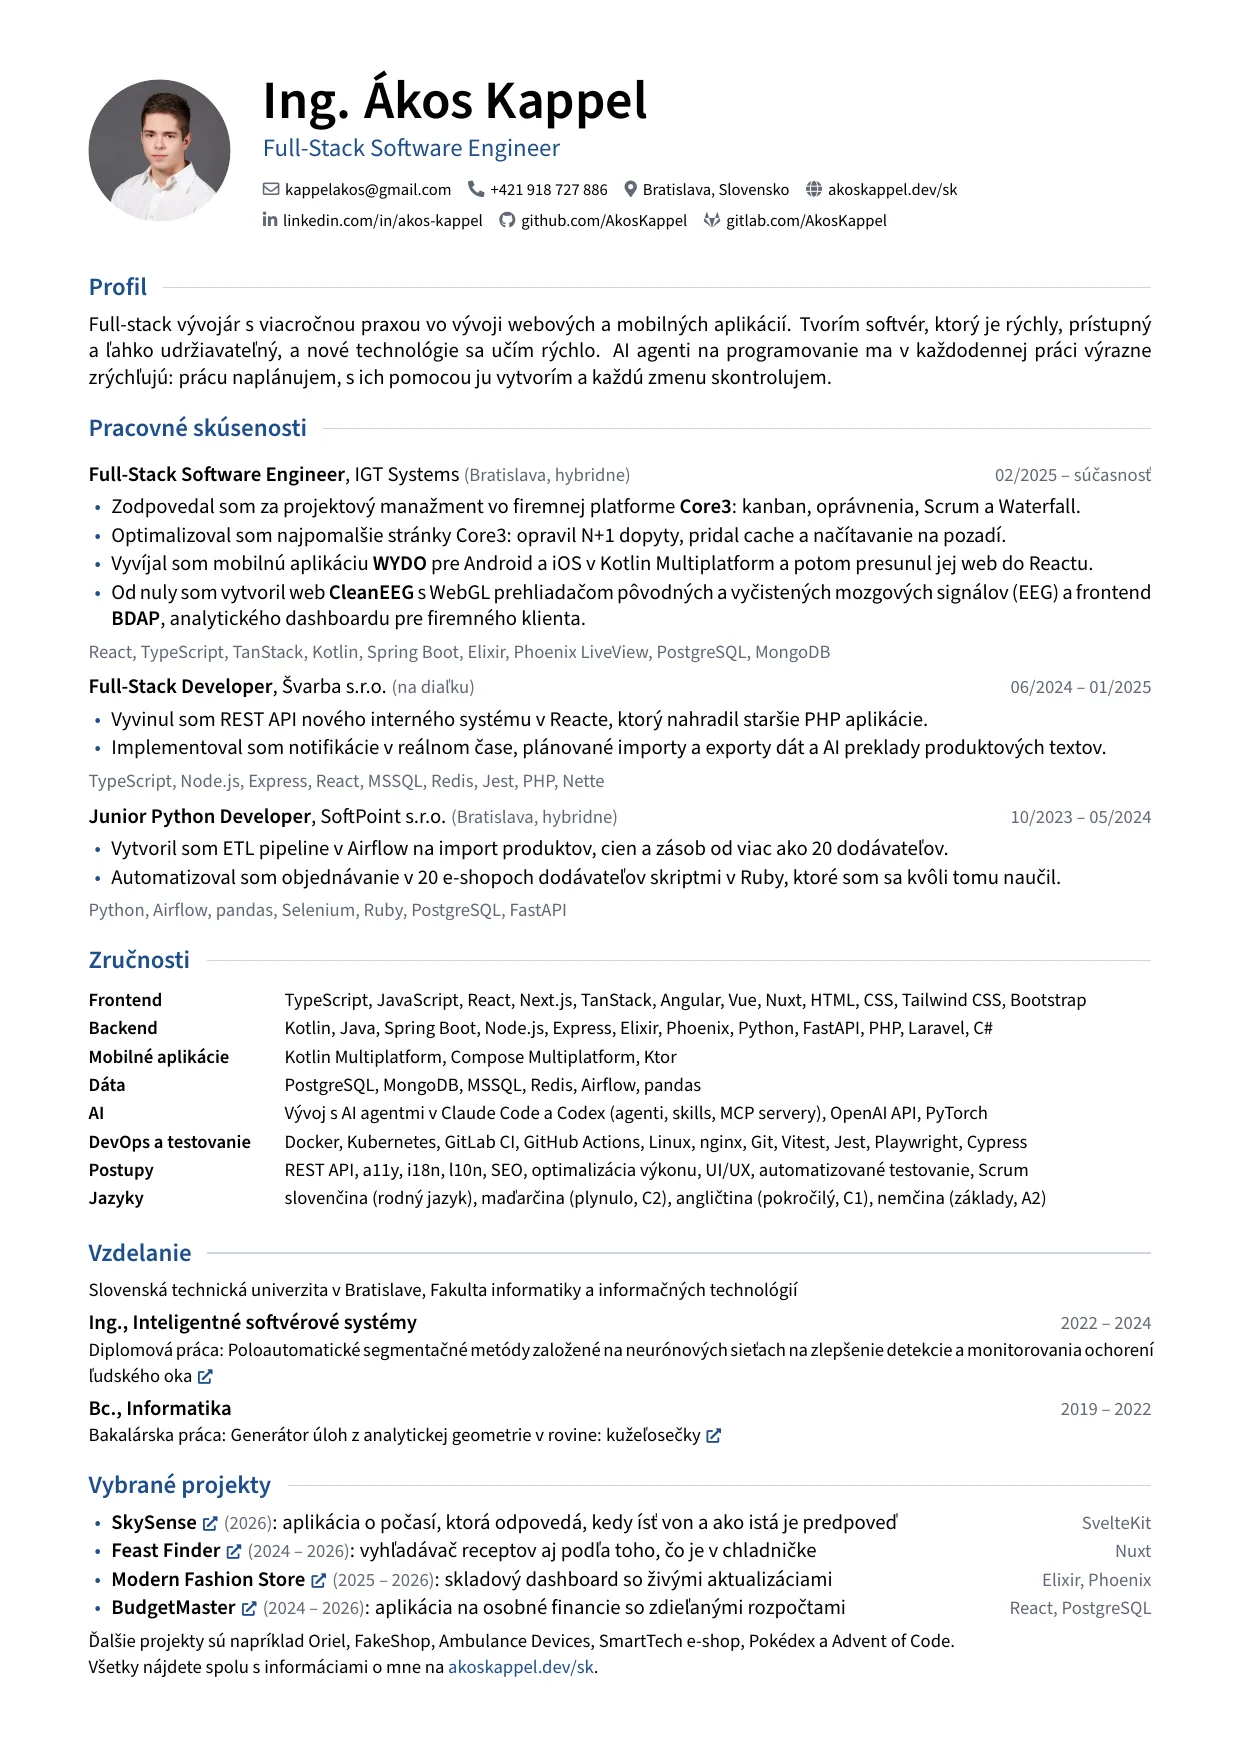
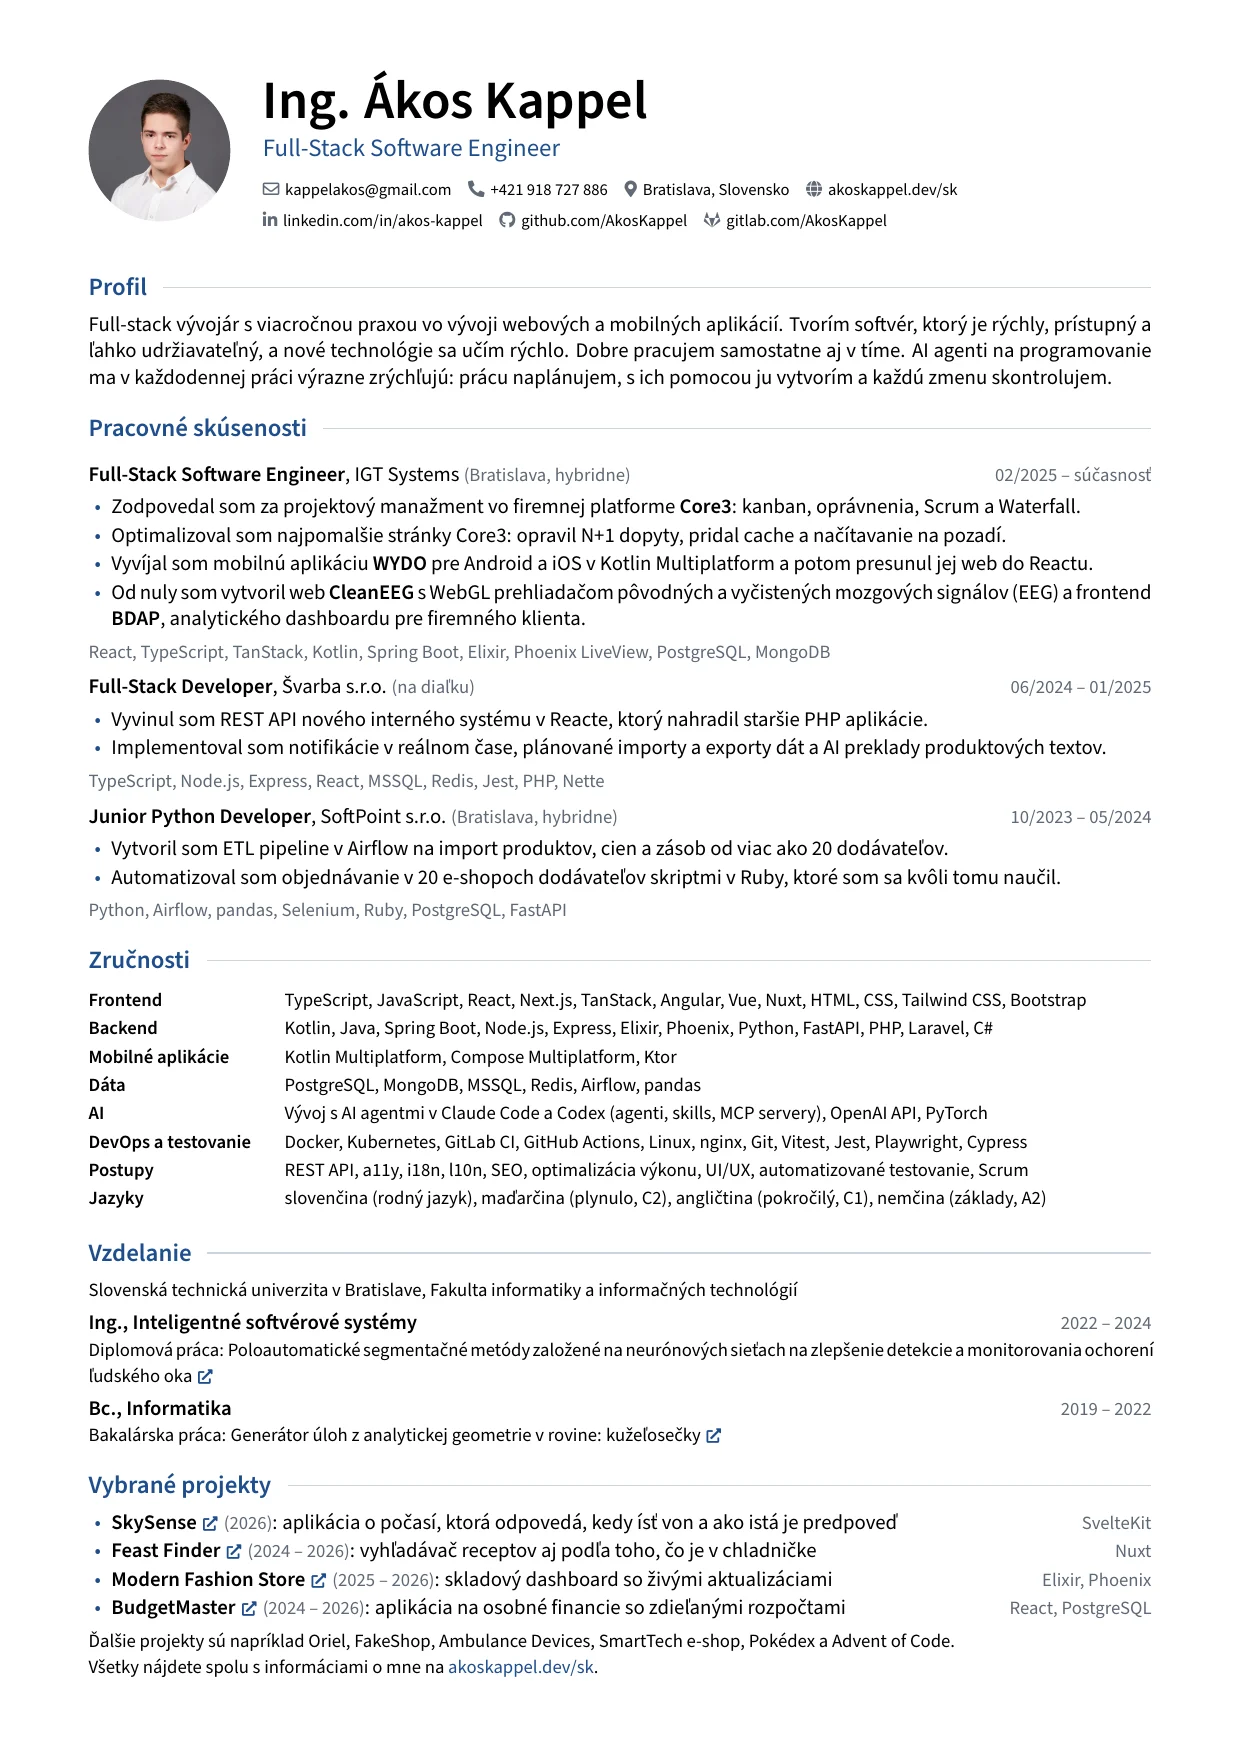
Mention working well alone and in a team on the about page and CV

Changed region(s): [[0.0612, 0.1847, 0.9186, 0.2463]]

diff --git a/src/content/site.ts b/src/content/site.ts
@@ -112,11 +112,11 @@ export const site = {
       },
       paragraphs: [
         {
-          en: "I work across the whole stack, from the database and the API to the interface people actually use. Before I write code I like to understand the problem and sketch the solution, and I leave tests behind so the next change is safe.",
-          sk: "Pracujem naprieč celým stackom, od databázy a API až po rozhranie, ktoré ľudia naozaj používajú. Kým začnem programovať, chcem pochopiť problém a načrtnúť riešenie, a nechávam po sebe testy, aby bola ďalšia zmena bezpečná.",
-          de: "Ich arbeite über den gesamten Stack, von der Datenbank und der API bis zur Oberfläche, die Menschen tatsächlich nutzen. Bevor ich Code schreibe, will ich das Problem verstehen und die Lösung skizzieren, und ich hinterlasse Tests, damit die nächste Änderung sicher ist.",
-          cs: "Pracuji napříč celým stackem, od databáze a API až po rozhraní, které lidé skutečně používají. Než začnu programovat, chci pochopit problém a načrtnout řešení, a nechávám po sobě testy, aby byla další změna bezpečná.",
-          hu: "A teljes stacken dolgozom, az adatbázistól és az API-tól egészen a felületig, amelyet az emberek ténylegesen használnak. Mielőtt kódot írok, szeretem megérteni a problémát és felvázolni a megoldást, és teszteket hagyok magam után, hogy a következő változtatás biztonságos legyen.",
+          en: "I work across the whole stack, from the database and the API to the interface people actually use. Before I write code I like to understand the problem and sketch the solution, and I leave tests behind so the next change is safe. I work well on my own and in a team: I take personal projects from the first idea to deployment alone, and at work I share reviews, decisions and knowledge with my colleagues.",
+          sk: "Pracujem naprieč celým stackom, od databázy a API až po rozhranie, ktoré ľudia naozaj používajú. Kým začnem programovať, chcem pochopiť problém a načrtnúť riešenie, a nechávam po sebe testy, aby bola ďalšia zmena bezpečná. Dobre pracujem samostatne aj v tíme: osobné projekty dotiahnem sám od prvého nápadu po nasadenie a v práci s kolegami zdieľam code review, rozhodnutia aj vedomosti.",
+          de: "Ich arbeite über den gesamten Stack, von der Datenbank und der API bis zur Oberfläche, die Menschen tatsächlich nutzen. Bevor ich Code schreibe, will ich das Problem verstehen und die Lösung skizzieren, und ich hinterlasse Tests, damit die nächste Änderung sicher ist. Ich arbeite gut allein und im Team: Eigene Projekte bringe ich allein von der ersten Idee bis zum Deployment, und in der Arbeit teile ich Code-Reviews, Entscheidungen und Wissen mit meinen Kollegen.",
+          cs: "Pracuji napříč celým stackem, od databáze a API až po rozhraní, které lidé skutečně používají. Než začnu programovat, chci pochopit problém a načrtnout řešení, a nechávám po sobě testy, aby byla další změna bezpečná. Dobře pracuji samostatně i v týmu: osobní projekty dotáhnu sám od prvního nápadu po nasazení a v práci s kolegy sdílím code review, rozhodnutí i znalosti.",
+          hu: "A teljes stacken dolgozom, az adatbázistól és az API-tól egészen a felületig, amelyet az emberek ténylegesen használnak. Mielőtt kódot írok, szeretem megérteni a problémát és felvázolni a megoldást, és teszteket hagyok magam után, hogy a következő változtatás biztonságos legyen. Önállóan és csapatban is jól dolgozom: a saját projektjeimet egyedül viszem végig az első ötlettől a telepítésig, a munkahelyemen pedig a kollégáimmal közösen nézzük át a kódot, hozzuk a döntéseket és osztjuk meg a tudást.",
         },
         {
           en: "AI coding agents make me much faster in my daily work. I plan the work, build it with their help and review every change, the same way I would review a colleague's code. I work with Claude Code and Codex, using agents, skills and MCP servers.",

diff --git a/src/content/cv.ts b/src/content/cv.ts
@@ -18,11 +18,11 @@ type CvProject = {
  */
 export const cv = {
   profile: {
-    en: "Full-stack software engineer with years of experience in web and mobile development. I build software that is fast, accessible and easy to maintain, and I learn new technologies quickly. AI coding agents make me much faster in my daily work: I plan the work, build it with their help and review every change.",
-    sk: "Full-stack vývojár s viacročnou praxou vo vývoji webových a mobilných aplikácií. Tvorím softvér, ktorý je rýchly, prístupný a ľahko udržiavateľný, a nové technológie sa učím rýchlo. AI agenti na programovanie ma v každodennej práci výrazne zrýchľujú: prácu naplánujem, s ich pomocou ju vytvorím a každú zmenu skontrolujem.",
-    de: "Full-Stack-Entwickler mit mehrjähriger Erfahrung in der Web- und Mobile-Entwicklung. Ich baue Software, die schnell, barrierefrei und leicht wartbar ist, und lerne neue Technologien schnell. KI-Coding-Agenten machen mich in meiner täglichen Arbeit deutlich schneller: Ich plane die Arbeit, setze sie mit ihrer Hilfe um und prüfe jede Änderung.",
-    cs: "Full-stack vývojář s několikaletou praxí ve vývoji webových a mobilních aplikací. Tvořím software, který je rychlý, přístupný a snadno udržovatelný, a nové technologie se učím rychle. AI agenti na programování mě v každodenní práci výrazně zrychlují: práci naplánuji, s jejich pomocí ji vytvořím a každou změnu zkontroluji.",
-    hu: "Full-stack fejlesztő, többéves tapasztalattal webes és mobilalkalmazások fejlesztésében. Gyors, akadálymentes és könnyen karbantartható szoftvert készítek, és gyorsan tanulok új technológiákat. Az AI kódoló ágensek a mindennapi munkámban jóval gyorsabbá tesznek: megtervezem a munkát, a segítségükkel elkészítem, és minden változtatást átnézek.",
+    en: "Full-stack software engineer with years of experience in web and mobile development. I build software that is fast, accessible and easy to maintain, and I learn new technologies quickly. I work well both independently and in a team. AI coding agents make me much faster in my daily work: I plan the work, build it with their help and review every change.",
+    sk: "Full-stack vývojár s viacročnou praxou vo vývoji webových a mobilných aplikácií. Tvorím softvér, ktorý je rýchly, prístupný a ľahko udržiavateľný, a nové technológie sa učím rýchlo. Dobre pracujem samostatne aj v tíme. AI agenti na programovanie ma v každodennej práci výrazne zrýchľujú: prácu naplánujem, s ich pomocou ju vytvorím a každú zmenu skontrolujem.",
+    de: "Full-Stack-Entwickler mit mehrjähriger Erfahrung in der Web- und Mobile-Entwicklung. Ich baue Software, die schnell, barrierefrei und leicht wartbar ist, und lerne neue Technologien schnell. Ich arbeite gut selbstständig wie auch im Team. KI-Coding-Agenten machen mich in meiner täglichen Arbeit deutlich schneller: Ich plane die Arbeit, setze sie mit ihrer Hilfe um und prüfe jede Änderung.",
+    cs: "Full-stack vývojář s několikaletou praxí ve vývoji webových a mobilních aplikací. Tvořím software, který je rychlý, přístupný a snadno udržovatelný, a nové technologie se učím rychle. Dobře pracuji samostatně i v týmu. AI agenti na programování mě v každodenní práci výrazně zrychlují: práci naplánuji, s jejich pomocí ji vytvořím a každou změnu zkontroluji.",
+    hu: "Full-stack fejlesztő, többéves tapasztalattal webes és mobilalkalmazások fejlesztésében. Gyors, akadálymentes és könnyen karbantartható szoftvert készítek, és gyorsan tanulok új technológiákat. Önállóan és csapatban is jól dolgozom. Az AI kódoló ágensek a mindennapi munkámban jóval gyorsabbá tesznek: megtervezem a munkát, a segítségükkel elkészítem, és minden változtatást átnézek.",
   } satisfies Text,
 
   /** Short bullets and the technology line per job, keyed by `Job.id`. */

diff --git a/latex/main-slovak.tex b/latex/main-slovak.tex
@@ -16,7 +16,7 @@
 }
 
 \section{Profil}
-Full-stack vývojár s viacročnou praxou vo vývoji webových a mobilných aplikácií. Tvorím softvér, ktorý je rýchly, prístupný a ľahko udržiavateľný, a nové technológie sa učím rýchlo. AI agenti na programovanie ma v každodennej práci výrazne zrýchľujú: prácu naplánujem, s ich pomocou ju vytvorím a každú zmenu skontrolujem.
+Full-stack vývojár s viacročnou praxou vo vývoji webových a mobilných aplikácií. Tvorím softvér, ktorý je rýchly, prístupný a ľahko udržiavateľný, a nové technológie sa učím rýchlo. Dobre pracujem samostatne aj v tíme. AI agenti na programovanie ma v každodennej práci výrazne zrýchľujú: prácu naplánujem, s ich pomocou ju vytvorím a každú zmenu skontrolujem.
 
 \section{Pracovné skúsenosti}
 

diff --git a/latex/main-english.tex b/latex/main-english.tex
@@ -16,7 +16,7 @@
 }
 
 \section{Profile}
-Full-stack software engineer with years of experience in web and mobile development. I build software that is fast, accessible and easy to maintain, and I learn new technologies quickly. AI coding agents make me much faster in my daily work: I plan the work, build it with their help and review every change.
+Full-stack software engineer with years of experience in web and mobile development. I build software that is fast, accessible and easy to maintain, and I learn new technologies quickly. I work well both independently and in a team. AI coding agents make me much faster in my daily work: I plan the work, build it with their help and review every change.
 
 \section{Experience}
 
